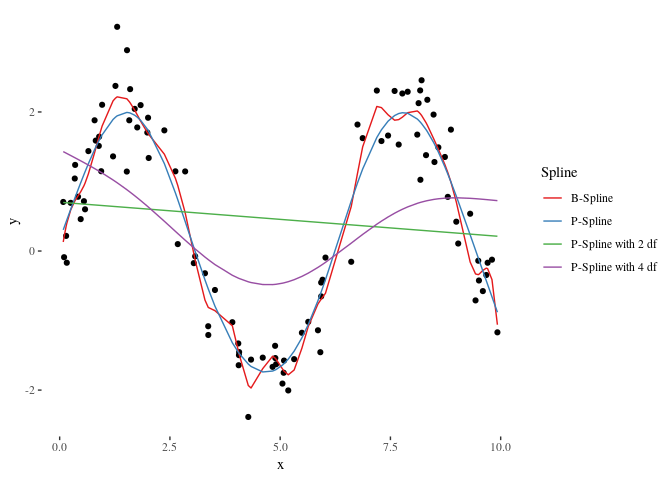
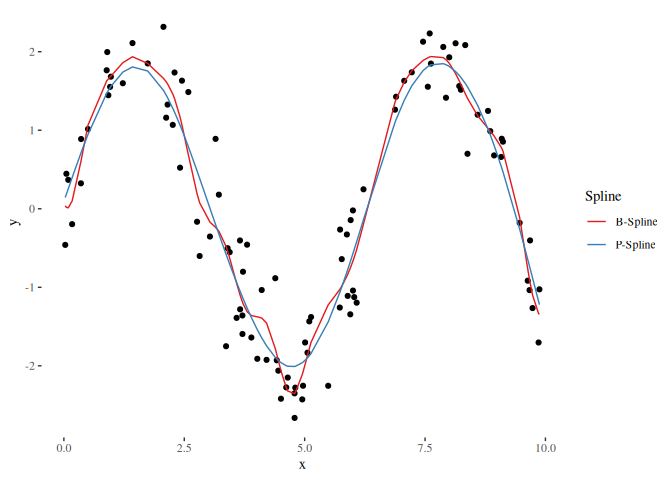
update README

diff --git a/README.md b/README.md
@@ -53,19 +53,19 @@ knots = createKnots(values = x, n_knots = 20, degree = 3)
 # Create basis using that knots:
 basis = createSplineBasis(values = x, degree = 3, knots = knots)
 str(basis)
-#>  num [1:100, 1:24] 0.1667 0.0444 0.0265 0 0 ...
+#>  num [1:100, 1:24] 0.16667 0.14274 0.10842 0.05609 0.00474 ...
 
 # You can also create sparse matrices:
 basis_sparse = createSparseSplineBasis(values = x, degree = 3, knots = knots)
 str(basis_sparse)
 #> Formal class 'dgCMatrix' [package "Matrix"] with 6 slots
-#>   ..@ i       : int [1:398] 0 1 2 0 1 2 3 4 5 0 ...
-#>   ..@ p       : int [1:25] 0 3 9 18 30 45 62 80 98 117 ...
+#>   ..@ i       : int [1:398] 0 1 2 3 4 5 0 1 2 3 ...
+#>   ..@ p       : int [1:25] 0 6 17 31 45 59 73 87 109 131 ...
 #>   ..@ Dim     : int [1:2] 100 24
 #>   ..@ Dimnames:List of 2
 #>   .. ..$ : NULL
 #>   .. ..$ : NULL
-#>   ..@ x       : num [1:398] 0.1667 0.0444 0.0265 0.6667 0.5621 ...
+#>   ..@ x       : num [1:398] 0.16667 0.14274 0.10842 0.05609 0.00474 ...
 #>   ..@ factors : list()
 
 # Check if row sums add up to 1:
@@ -143,9 +143,9 @@ of freedom to a penalty term:
 ``` r
 # We use the basis and penalty matrix from above and specify 2 and 4 degrees of freedom:
 (penalty_df2 = demmlerReinsch(t(basis) %*% basis, K, 2))
-#> [1] 56215749977
+#> [1] 2.15e+10
 (penalty_df4 = demmlerReinsch(t(basis) %*% basis, K, 4))
-#> [1] 422.4807
+#> [1] 443.2
 
 # This is now used for a new estimator:
 beta_df2 = myEstimator(basis, y, penalty_df2 * K)
@@ -168,4 +168,116 @@ ggplot() + geom_point(data = plot_df, mapping = aes(x = x, y = y)) +
   scale_color_brewer(palette = "Set1")
 ```
 
-![](Readme_files/unnamed-chunk-5-1.png)<!-- -->
+![](Readme_files/unnamed-chunk-5-1.png)<!-- --> \#\#\# Subtract model
+effects
+
+The idea of subtracting effects is to not let a design matrix model the
+effect represented in another matrix. For example, let’s define a linear
+effect:
+
+``` r
+y_linear = 2 + 1.5 * x + rnorm(nsim)
+df_linear = data.frame(x = x, y = y_linear)
+
+ggplot() +
+  geom_point(data = df_linear, aes(x = x, y = y))
+```
+
+![](Readme_files/unnamed-chunk-6-1.png)<!-- -->
+
+The linear effect is expressed in the design matrix `(1, x)`. With
+`centerMatrix()` we can generate a rotation matrix which is used to
+rotate the design matrix that the linear effect cannot modelled anymore
+while the full design matrix still models the linear effect:
+
+``` r
+X_linear = cbind(1, x)
+X_nonlinear = basis %*% getSubtractionRotation(basis, X_linear)
+
+pred_full = basis %*% myEstimator(basis, y_linear)
+pred_nonlinear = X_nonlinear %*% myEstimator(X_nonlinear, y_linear)
+
+df_plot = data.frame(
+  x = rep(x, 2),
+  y = c(pred_nonlinear, pred_full),
+  type = rep(c("Non linear effect", "Full effect"), each = length(x)))
+
+gg_without_linear = ggplot() +
+  geom_point(data = data.frame(x = x, y = y_linear), aes(x = x, y = y)) +
+  geom_line(data = df_plot, aes(x = x, y = y, color = type)) +
+  theme_tufte() +
+  scale_color_brewer(palette = "Set1")
+```
+
+If we use the non-linear effect from the first examples, we observe that
+both, the reduced and full design matrix can capture the non-linear
+effect. The only differences observable is the shift on the y axis which
+results from the subtraction of a constant, meaning that the estimated
+effect is always centered around zero if the design matrix of the linear
+effect contains a constant column:
+
+``` r
+beta_full_nl = myEstimator(basis, y)
+beta_nonlinear_nl = myEstimator(X_nonlinear, y)
+
+pred_full_nl = basis %*% beta_full_nl
+pred_nonlinear_nl = X_nonlinear %*% beta_nonlinear_nl
+
+df_plot_nl = data.frame(
+  x = rep(x, 2),
+  y = c(pred_nonlinear_nl, pred_full_nl),
+  type = rep(c("Non linear effect", "Full effect"), each = length(x)))
+
+ggplot() +
+  geom_point(data = data.frame(x = x, y = y), aes(x = x, y = y)) +
+  geom_line(data = df_plot_nl, aes(x = x, y = y, color = type)) +
+  theme_tufte() +
+  scale_color_brewer(palette = "Set1")
+```
+
+![](Readme_files/unnamed-chunk-8-1.png)<!-- -->
+
+### Binning
+
+Using binning allows to reduce the number of observations in the design
+matrix. Therefore, the vector `x` is discretized into a smaller amount
+of bins. Furthermore, a mapping keeps the information, which of the bins
+represents which original value. Efficient algorithms are design based
+on this information:
+
+``` r
+bins = binVectorCustom(x, 50)
+idx = calculateIndexVector(x, bins) + 1 # Note the shift from C++ to R in indexing
+head(data.frame(x = x, bins = bins[idx]))
+#>         x    bins
+#> 1 0.02825 0.02825
+#> 2 0.05186 0.02825
+#> 3 0.09087 0.02825
+#> 4 0.17099 0.22921
+#> 5 0.35400 0.43016
+#> 6 0.35748 0.43016
+```
+
+For spline regression, we can build the basis just using the bins and
+use this (much) smaller design matrix with the optimized algorithms:
+
+``` r
+library(Matrix)
+
+w = rep(1, length(idx))
+basis_bin = createSparseSplineBasis(values = bins, degree = 3, knots = knots)
+xtx = binnedSparseMatMult(t(basis_bin), idx - 1, w)
+beta_bin = solve(xtx) %*% binnedSparseMatMultResponse(t(basis_bin), y, idx - 1, w)
+
+df_bin = data.frame(
+  x = rep(x, 2),
+  y = c(basis %*% beta, basis %*% beta_bin),
+  binning = rep(c("No Binning", "Binning"), each = length(x)))
+
+ggplot() + geom_point(data = plot_df, mapping = aes(x = x, y = y)) +
+  geom_line(data = df_bin, mapping = aes(x = x, y = y, color = binning)) +
+  theme_tufte() +
+  scale_color_brewer(palette = "Set1")
+```
+
+![](Readme_files/unnamed-chunk-10-1.png)<!-- -->
